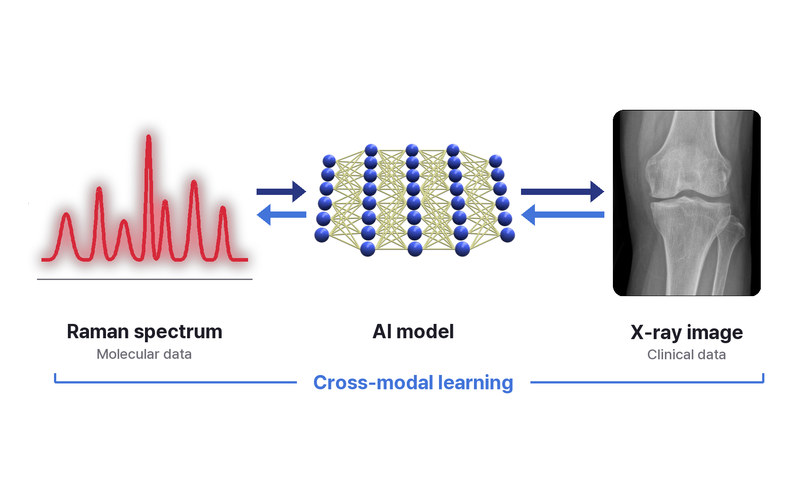
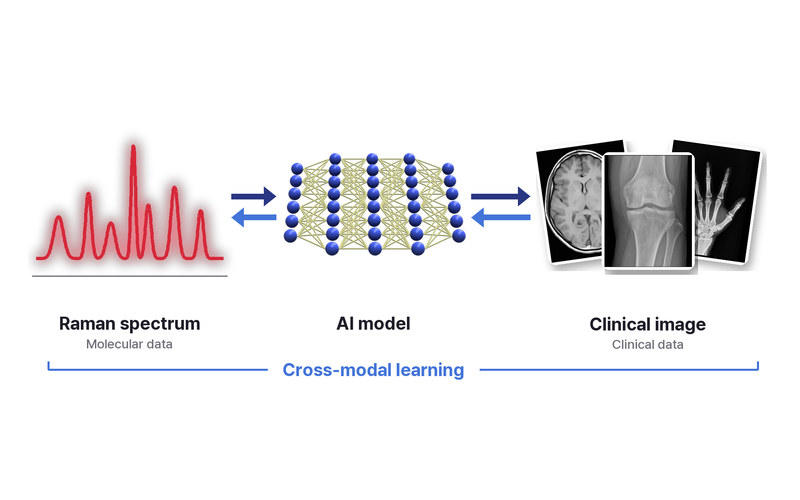
content: cross-modal figure shows clinical images (not only X-ray)
Label 'X-ray image' -> 'Clinical image'; knee X-ray, brain MRI and hand
X-ray tiles; Home card thumbnail regenerated.

Changed region(s): [[0.0312, 0.21, 0.9688, 0.6], [0.0625, 0.63, 0.9688, 0.78], [0.4062, 0.63, 0.5625, 0.69]]

diff --git a/research.html b/research.html
@@ -63,7 +63,7 @@
           <h3>Raman Cross-modal</h3>
           <p class="desc"><span class="lang-ko">분자 데이터와 임상 데이터 등 서로 다른 모달리티의 통합 학습<br>- 두 데이터 사이의 관계 규명 및 새로운 진단 지표 개발 가능</span><span class="lang-en">Joint learning of different modalities such as molecular and clinical data<br>- Uncovering how they relate and building new diagnostic indicators</span></p>
           <div class="thumbs">
-            <img src="assets/img/research/crossmodal-raman-xray.jpg" alt="Cross-modal learning between exosomal Raman spectra and X-ray images" width="1600" height="473" style="--ar:3.38" loading="lazy">
+            <img src="assets/img/research/crossmodal-raman-clinical.jpg" alt="Cross-modal learning between exosomal Raman spectra and clinical images" width="1600" height="454" style="--ar:3.52" loading="lazy">
           </div>
         </div>
       </div>
